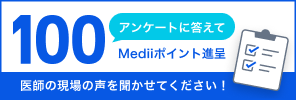
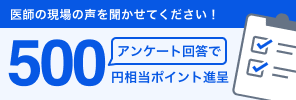
医師資格確認画面後、アンケート画面へそのまま遷移するようにする　& 医師オンボーディングアンケートを500ptへ改修する

diff --git a/src/pages/onboarding/questionary/index.tsx b/src/pages/onboarding/questionary/index.tsx
@@ -3,6 +3,7 @@ import { Breadcrumb } from '@/components/Breadcrumb/Breadcrumb';
 import { BreadcrumbItem } from '@/components/Breadcrumb/BreadcrumbItem';
 import { BreadcrumbLink } from '@/components/Breadcrumb/BreadcrumbLink';
 import PrimaryButton from '@/components/Button/PrimaryButton';
+import SecondaryButton from '@/components/Button/SecondaryButton';
 import { ColoredImage } from '@/components/Image/ColoredImage';
 import { CheckBox } from '@/components/Parts/Form/CheckBox';
 import { ExpandTextArea } from '@/components/Parts/Form/ExpandTextArea';
@@ -12,6 +13,7 @@ import { Required } from '@/components/Parts/Form/Required';
 import { SpinnerBorder } from '@/components/Parts/Spinner/SpinnerBorder';
 import { QuestionaryItems } from '@/features/onboarding/QuestionaryItems';
 import { useOnBoardingQuestionary } from '@/features/onboarding/useOnBoardingQuestionary';
+import Link from 'next/link';
 import React from 'react';
 
 const OnBoardingQuestionaryPage = () => {
@@ -26,7 +28,11 @@ const OnBoardingQuestionaryPage = () => {
       </Breadcrumb>
       <h2 className="mt-2 text-xxl font-semibold">日常診療についてのアンケート</h2>
       <div className="mt-2 text-md">
-        アンケート回答のお礼として100ポイントをプレゼントします。ポイント付与はおひとりさま１回のみです。
+        E-コンサルへのご登録ありがとうございます。
+        <br />
+        先生方が日常診療で感じる臨床疑問•不安を解決すべく、どのような課題や不安をお抱えになっているかお伺いしています。
+        <br />
+        アンケート回答のお礼として500ポイントを進呈いたします。ポイント付与はおひとりさま1回のみです。
       </div>
       <div className="mt-2 text-medii-sm font-light text-secondary">
         ※アンケートの回答は統計的に処理され、特定の個人が識別できる情報として公表されることはありません。
@@ -130,9 +136,16 @@ const OnBoardingQuestionaryPage = () => {
           {isSending ? (
             <SpinnerBorder />
           ) : (
-            <PrimaryButton size="large" className="px-4">
-              アンケートを送信する
-            </PrimaryButton>
+            <div className='flex'>
+              <Link href={"/top"}>
+                <SecondaryButton size='large' className="px-4 mr-10">
+                  あとでアンケートに回答する
+                </SecondaryButton>
+              </Link>
+              <PrimaryButton size="large" className="px-4">
+                アンケートを送信する
+              </PrimaryButton>
+            </div>
           )}
         </div>
       </form>

diff --git a/src/features/document/index.tsx b/src/features/document/index.tsx
@@ -21,9 +21,9 @@ export const Document = () => {
 
   const loginRedirectUrlKey = 'Login::RedirectURL';
 
-  const routerPushToWelcomePage = useCallback(async () => {
+  const routerPushToQuestionaryPage = useCallback(async () => {
     await postEventLog({ name: 'document-complete' });
-    router.push('/welcome');
+    router.push('/onboarding/questionary');
   }, [postEventLog, router]);
   const setSelectedWithRedirect = useCallback(
     (value: DocumentSelected) => {
@@ -33,18 +33,18 @@ export const Document = () => {
         if (savedRedirectUrl && savedRedirectUrl !== '' && savedRedirectUrl.toLocaleLowerCase() !== '/top') {
           router.push(savedRedirectUrl);
         } else {
-          routerPushToWelcomePage();
+          routerPushToQuestionaryPage();
         }
         localStorage.removeItem(loginRedirectUrlKey);
       }
     },
-    [router, routerPushToWelcomePage]
+    [router, routerPushToQuestionaryPage]
   );
 
   if (!profile) return <></>;
 
   if (profile.is_invited || profile.is_skip_confirmation_by_utm_source || profile.is_huf_user) {
-    router.push('/welcome');
+    router.push('/onboarding/questionary');
     return <></>;
   }
 

diff --git a/src/features/onboarding/useOnBoardingQuestionary.ts b/src/features/onboarding/useOnBoardingQuestionary.ts
@@ -6,6 +6,7 @@ import {
 } from '@/hooks/api/questionary/usePostQuestionaryItemsForOnboarding';
 import { useRouter } from 'next/router';
 import { mutateFetchFlag } from '@/hooks/api/account/useFetchFlags';
+import { useEventLog } from '@/hooks/api/eventLog/useEventLog';
 
 type Answer = {
   questionId: string;
@@ -83,6 +84,8 @@ export const useOnBoardingQuestionary = () => {
     );
   }, []);
 
+  const { postEventLog } = useEventLog();
+
   const submit = useCallback(async () => {
     setIsSending(true);
 
@@ -109,8 +112,9 @@ export const useOnBoardingQuestionary = () => {
     // アンケート結果によって変わるため次のページで取得するためにmutateしておく
     mutateFetchFlag('FirstConsultCampaign');
 
+    await postEventLog({ name: 'onboarding-questionary-complete' })
     router.push('/onboarding/questionary/completed');
-  }, [postQuestionaryItemsForOnboarding, questionAndAnswers, router]);
+  }, [postEventLog, postQuestionaryItemsForOnboarding, questionAndAnswers, router]);
 
   const checkIsCheckboxRequired = useCallback(
     (questionId: string) => {

diff --git a/src/pages/top.tsx b/src/pages/top.tsx
@@ -1,13 +1,11 @@
 import React from 'react';
 import { Top } from '@/features/top';
 import { NextPageWithLayout } from './_app';
-import { OnboardingQuestionaryModal } from '@/features/onboarding/OnboardingQuestionaryModal';
 
 const Home: NextPageWithLayout = () => {
   return (
     <>
       <Top />
-      <OnboardingQuestionaryModal />
     </>
   );
 };
